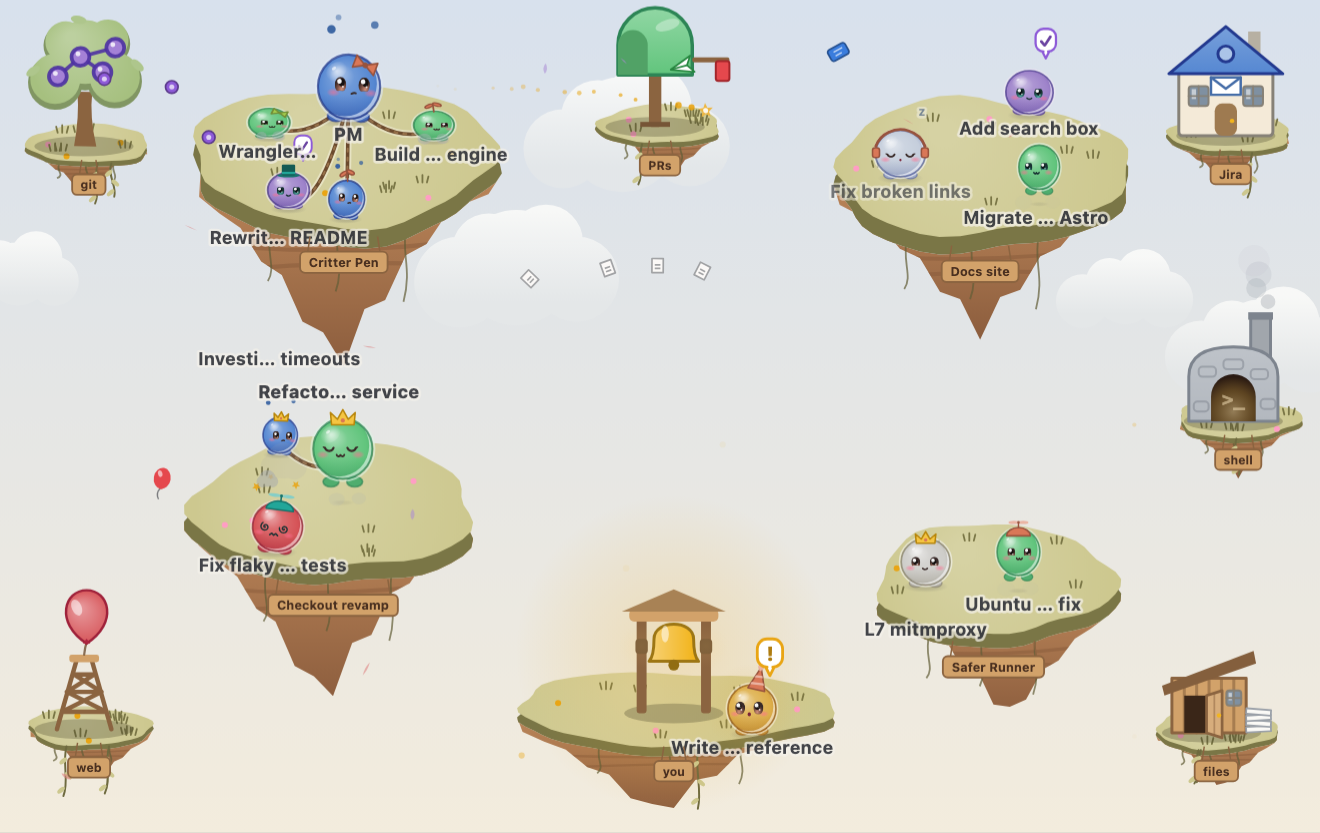
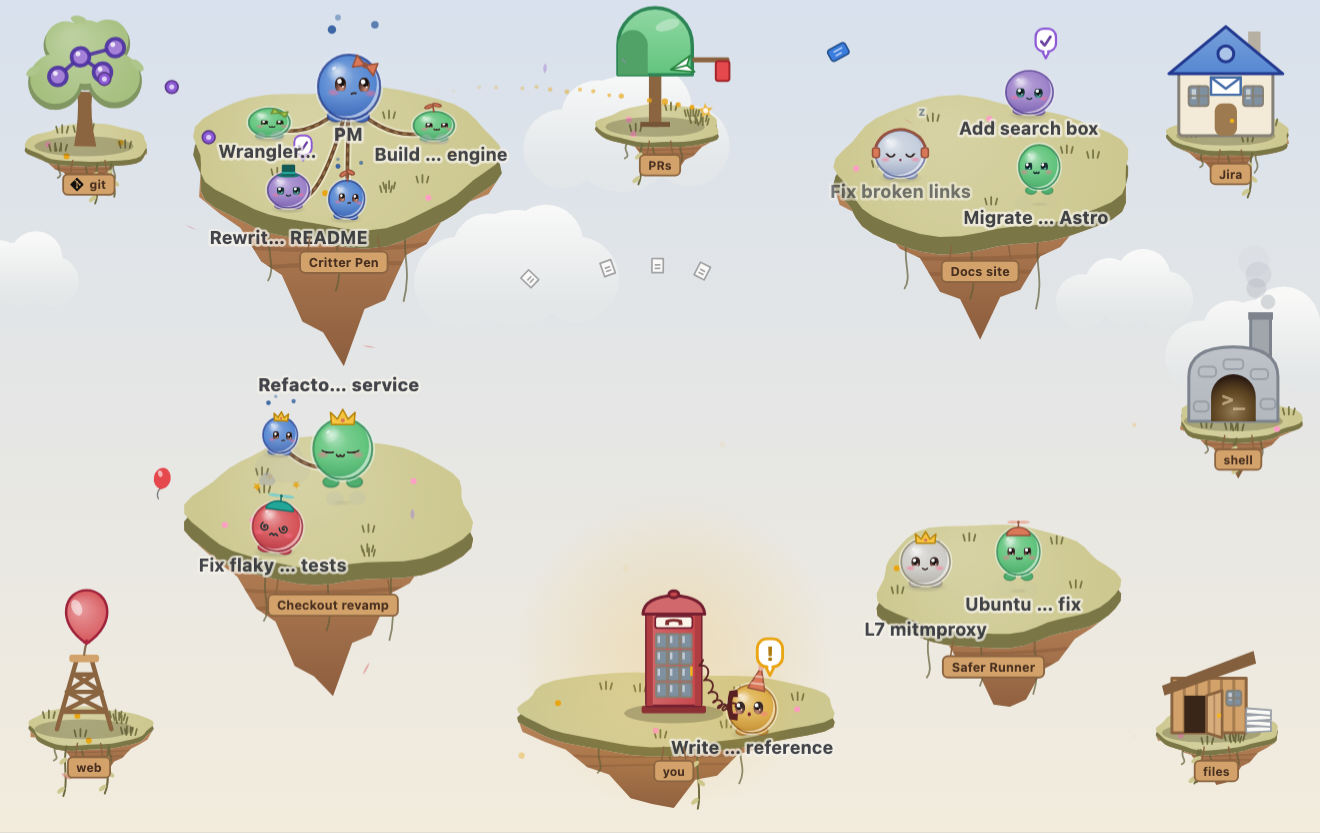
Phone box queue holder, Git plank mark, labels tethered to the drawn head
- The front of the queue at the 'you' islet stands still holding the
  receiver: drawPhoneReceiver from phoneSocket (mirrored by the slot side)
  to receiverSpot at its cheek; caption planks pass { kind } for the Git mark.
- The over-the-head label anchor is measured from the head as drawn (role
  size and hops included), clears at most 14px of hat or bubble, and only
  slides sideways there, so names no longer float 40-75px above a crowned
  parent. New test: a crowned parent beside a small child, each name within
  the tether of its own body (fails on the previous labels.js).
- README and DESIGN describe the phone box; screenshots refreshed.

diff --git a/public/engine/pen.js b/public/engine/pen.js
@@ -7,7 +7,8 @@ import { readTheme, toCss, mix, lighten, darken, statusColor } from './color.js'
 import { computeLayout, islandPoint, pickAt, LANDMARK_LABELS } from './layout.js';
 import { createWander, stepWander, wanderPace, separate, islandAxes, PERSONAL_SPACE, DEPTH_WEIGHT } from './wander.js';
 import { drawIsland, drawSignpost, drawBuilding, drawLeash } from './scene.js';
-import { drawCarrier, drawServiceBuilding, drawCaptionPlank, isletFootprint, isletBob, bellQueueSlots, buildingFootprint } from './buildings.js';
+import { drawCarrier, drawServiceBuilding, drawCaptionPlank, isletFootprint, isletBob, bellQueueSlots, buildingFootprint,
+  PHONE_HOLDER_SLOT, phoneSocket, receiverSpot, drawPhoneReceiver } from './buildings.js';
 import { placeLabels, stripTaskPrefix, shortLabel } from './labels.js';
 import { diffCritters } from './diff.js';
 import {
@@ -461,7 +462,7 @@ export function createPen(el, opts = {}) {
     const base = isletBase(isl);
     const slots = bellQueueSlots(isl.scale, layout.radius, Math.max(8, n + 1));
     const q = slots[Math.min(n, slots.length - 1)];
-    return { x: base.x + q.dx, y: base.y + q.dy, lookX: base.x, lookY: base.y - isl.fp.top * 0.5 };
+    return { x: base.x + q.dx, y: base.y + q.dy, side: q.side, base, scale: isl.scale, lookX: base.x, lookY: base.y - isl.fp.top * 0.5 };
   }
 
   /** Advance a hop along an arc toward (tx, ty); true once it has landed. */
@@ -943,7 +944,11 @@ export function createPen(el, opts = {}) {
     list.sort((a, b) => a.s.y.x - b.s.y.x);
     const hoverSprite = hovered ? sprites.get(hovered) : null;
     const labels = [];
+    // ── islands / wander ── the front of the phone queue holds the receiver, standing still.
+    const holderId = layout.islets && bellQueue[PHONE_HOLDER_SLOT];
     for (const { s, pose, r } of list) {
+      const holding = s.id === holderId && s.place === 'bell' && !s.hop && s.life === 'live';
+      if (holding) { pose.dy = 0; pose.lift = 0; pose.wave = null; pose.feetDrop = 0; }
       const color = currentColor(s);
       const groundY = s.y.x;
       drawShadow(ctx, s.x.x + pose.dx, groundY, r, pose.lift, pal, s.alpha);
@@ -959,6 +964,10 @@ export function createPen(el, opts = {}) {
         accessory: s.accessory, tint: s.tint, eyeInk: s.eyeInk,
         phase: s.phase, spin: s.spin, flip: s.flip,
       }, pal, time);
+      if (holding) {
+        const q = youSpot(PHONE_HOLDER_SLOT), sock = phoneSocket(q.scale), rs = receiverSpot(r, q.side);
+        drawPhoneReceiver(ctx, q.base.x + sock.dx * q.side, q.base.y + sock.dy, s.x.x + pose.dx + rs.dx, groundY + rs.dy, q.scale, pal, reduced ? 0 : time);
+      }
 
       // Status overlays (drawn upright, outside the squash).
       const headY = s.cy - r * 1.2;
@@ -1068,7 +1077,7 @@ export function createPen(el, opts = {}) {
 
     // ── islands / wander ── name planks over the debris, so a flurry of paper never hides them.
     if (layout.islets) {
-      for (const i of layout.islets) drawCaptionPlank(ctx, i.x, isletBase(i).captionY, LANDMARK_LABELS[i.kind], pal, i.scale);
+      for (const i of layout.islets) drawCaptionPlank(ctx, i.x, isletBase(i).captionY, LANDMARK_LABELS[i.kind], pal, i.scale, { kind: i.kind });
       for (const v of islandViz.values()) {
         drawSignpost(ctx, v.cx, v.cy + v.bob + v.ry * 1.3 + 4, v.taskName, pal, { scale: clamp(layout.radius / 18, 0.8, 1.15), alpha: v.a, hang: true });
       }

diff --git a/public/engine/test/labels.test.js b/public/engine/test/labels.test.js
@@ -83,9 +83,9 @@ test('a label placed above the head clears the headroom of a hat or bubble', () 
   const measure = (t) => t.length * 7;
   const base = { id: 'q', text: 'Write API reference', x: 500, groundY: 700, r: 18, status: 'needs-you', above: true };
   const [plain] = placeLabels([base], measure);
-  const [raised] = placeLabels([{ ...base, headroom: 20 }], measure);
-  assert.equal(plain.y - raised.y, 20);
-  assert.ok(raised.box.b < 700 - 18 * 2 - 20, 'label bottom sits above head + headroom');
+  const [raised] = placeLabels([{ ...base, headroom: 10 }], measure);
+  assert.equal(plain.y - raised.y, 10);
+  assert.ok(raised.box.b < 700 - 18 * 2 - 10, 'label bottom sits above head + headroom');
   // ...but never drifts far above: tall headroom is capped.
   const [tall] = placeLabels([{ ...base, headroom: 60 }], measure);
   assert.equal(plain.y - tall.y, MAX_HEADROOM);
@@ -249,5 +249,29 @@ test('names stay inside the pen', () => {
   for (const p of placeLabels(items, m, [{ l: 0, r: 400, t: 62, b: 120 }], bounds)) {
     if (p.hidden) continue;
     assert.ok(p.box.t >= 0 && p.box.l >= 0 && p.box.r <= 400 && p.box.b <= 300, `${p.id} at ${JSON.stringify(p.box)}`);
+  }
+});
+
+test('each name stays within the tether of its OWN body: crowned parent beside a small child', () => {
+  const m = (t) => t.length * 7;
+  // Drawn bodies: a 1.35x parent mid-hop with a crown, a 0.8x child, packed together
+  // so neither name fits under its feet (the Checkout island case).
+  const R = 20, pr = R * 1.35, cr = R * 0.8;
+  const items = [
+    { id: 'parent', text: 'Refactor … service', x: 300, groundY: 200, r: pr, parent: true, status: 'working', headroom: 26,
+      body: { cx: 300, cy: 200 - pr - 6, cr: pr } },
+    { id: 'child', text: 'Investigate … timeouts', x: 262, groundY: 196, r: cr, status: 'thinking', headroom: 8,
+      body: { cx: 262, cy: 196 - cr, cr } },
+    { id: 'front', text: 'Fix flaky … tests', x: 290, groundY: 238, r: R, status: 'error', body: { cx: 290, cy: 238 - R, cr: R } },
+  ];
+  const placed = placeLabels(items, m);
+  for (const p of placed) {
+    if (p.hidden) continue;
+    const it = items.find((x) => x.id === p.id), b = it.body;
+    const body = { l: b.cx - b.cr, r: b.cx + b.cr, t: b.cy - b.cr, b: b.cy + b.cr };
+    const gapY = p.box.t >= body.b ? p.box.t - body.b : p.box.b <= body.t ? body.t - p.box.b : 0;
+    const tether = Math.max(it.r, 20) + 4; // about a radius, at least a line
+    assert.ok(gapY <= tether, `${p.id}'s name is ${gapY.toFixed(0)}px from its body (tether ${tether})`);
+    assert.ok(Math.abs(p.x - b.cx) <= it.r * 1.0 + 1e-6, `${p.id}'s name slid ${Math.abs(p.x - b.cx).toFixed(0)}px sideways`);
   }
 });

diff --git a/public/engine/labels.js b/public/engine/labels.js
@@ -8,7 +8,7 @@ export const LABEL_PRIORITY = ['needs-you', 'finished', 'working', 'thinking', '
 
 const LABEL_H = 16;
 /** Most a label above the head will rise to clear a hat or bubble (px). */
-export const MAX_HEADROOM = 22;
+export const MAX_HEADROOM = 14;
 
 const loose = (s) => String(s || '').toLowerCase().replace(/[\s_-]+/g, ' ').trim();
 
@@ -66,7 +66,9 @@ export const MAX_SHIFT = 1;
 /** Where a label wants to be: under the feet, and just over the head as the second choice. */
 export function anchorSpots(it) {
   const below = { x: it.x, y: it.groundY + 10 };
-  const above = { x: it.x, y: it.groundY - it.r * 2 - LABEL_H / 2 - 3 - Math.min(it.headroom || 0, MAX_HEADROOM) };
+  // Measured from the head as drawn (role size and hops included), not from the ground.
+  const headTop = it.body ? it.body.cy - it.body.cr : it.groundY - it.r * 2;
+  const above = { x: it.x, y: headTop - LABEL_H / 2 - 3 - Math.min(it.headroom || 0, MAX_HEADROOM) };
   return it.above ? [above, below] : [below, above];
 }
 
@@ -85,9 +87,11 @@ function candidates(it) {
   const { dx, dy } = shiftLimits(it);
   const out = [];
   anchorSpots(it).forEach((a, i) => {
-    const away = a.y > it.groundY ? 1 : -1; // never nudge into the body
+    const below = a.y > it.groundY;
+    const away = below ? 1 : -1; // never nudge into the body
     const grid = [];
-    for (const fy of [0, 0.5, 0.8, 1]) {
+    // Over the head it only slides sideways: any higher and it floats off.
+    for (const fy of below ? [0, 0.5, 0.8, 1] : [0]) {
       for (const fx of [0, -0.5, 0.5, -1, 1]) {
         if (Math.hypot(fx, fy) <= 1 + 1e-9) grid.push({ x: fx * dx, y: away * fy * dy, d: Math.hypot(fx, fy) });
       }

diff --git a/README.md b/README.md
@@ -15,7 +15,7 @@ PR mailbox, a ticket at the Jira post office.
 | --- | --- |
 | Green, hopping | Working: running tools, a background job (the board's **JOB**), or a running sub-agent or agent-team member |
 | Blue, bobbing with "…" | Thinking: working but quiet for a while, or idle while a session it spawned or nests is still working |
-| Amber, "!", queued at the "you" islet | Needs you: a permission prompt, a question or an API error |
+| Amber, "!", queued at the phone box | Needs you: a permission prompt, a question or an API error. The one at the front holds the receiver |
 | Red, dizzy, smoking | One of its own PRs has failing checks |
 | Lilac, sitting, with a ✓ | Finished a turn you haven't looked at yet. Clicking the critter or opening the session on the board clears it. Remembered per browser, and it never dozes off |
 | Grey, awake and relaxed | Idle at its prompt |
@@ -26,7 +26,9 @@ PR mailbox, a ticket at the Jira post office.
 - **Services:** each service (git, PRs, Jira, shell, web, files) has a building on its
   own islet around the edge, always in roughly the same place (git top-left, PRs top,
   Jira top-right, shell right, files bottom-right, web bottom-left). The "you" islet
-  sits front and centre; critters that need you hop over and queue outside it.
+  with its red phone box sits front and centre: critters that need you hop over and
+  queue outside, the front one holding the receiver, and the phone rings while anyone
+  waits.
 - **A steady view:** nothing moves the scene but a resize of the pen. Islands and islets
   stay exactly where they are as sessions change status, do things, spawn or finish. A
   new task's island appears in free space; a closed task's island fades where it was

diff --git a/DESIGN.md b/DESIGN.md
@@ -93,11 +93,12 @@ islet (`buildings.js`, the artist's; the carrier is drawn separately so it can b
 re-skinned). Placement is carrier-independent: `layout.js` gets a footprint function
 (`isletFootprint`) and treats each service as a box with a preferred spot, a fixed
 mental map: git top-left, PRs top, Jira top-right, shell right, files bottom-right, web
-bottom-left, and the **"you" islet** front and centre (`layout.SERVICE_SPOTS`). Islets
-lean toward their spots but may shift away from task islands on a full pack. A critter
-that needs you hops over and queues outside the "you" building
-(`buildings.bellQueueSlots`); the building glows softly while anyone waits (no count:
-another extension shows that). Projectiles arc from the critter to the service's
+bottom-left, and the **"you" islet** (a red phone box) front and centre
+(`layout.SERVICE_SPOTS`). Islets lean toward their spots but may shift away from task
+islands on a full pack. A critter that needs you hops over and queues outside the phone
+box (`buildings.bellQueueSlots`); the one at the front (`PHONE_HOLDER_SLOT`) stands still
+holding the receiver on its curly cord, and the phone rings while anyone waits (no
+count: another extension shows that). Projectiles arc from the critter to the service's
 building: git = little commit dots, PR = paper plane, Jira = ticket card, terminal =
 sparks, files = paper scraps, web = tiny balloon; the building plays its hit animation.
 
